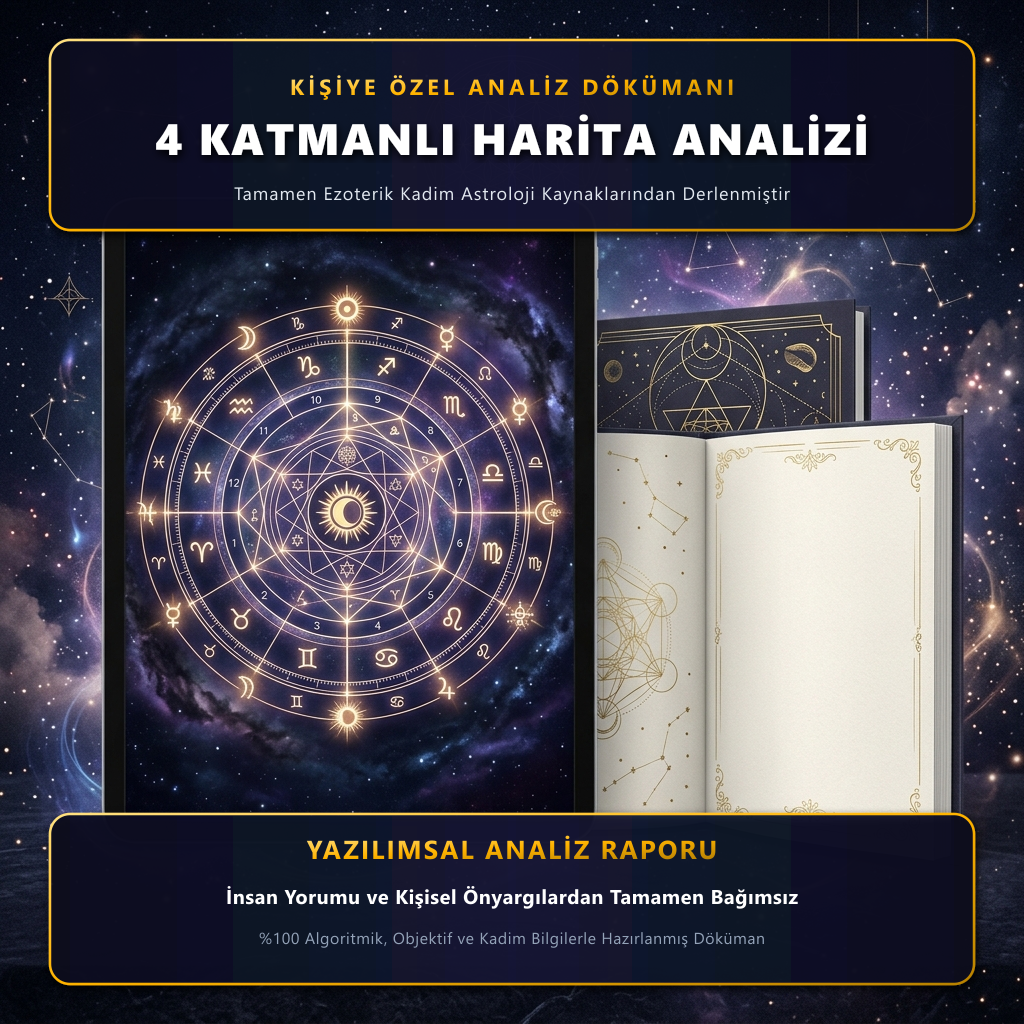
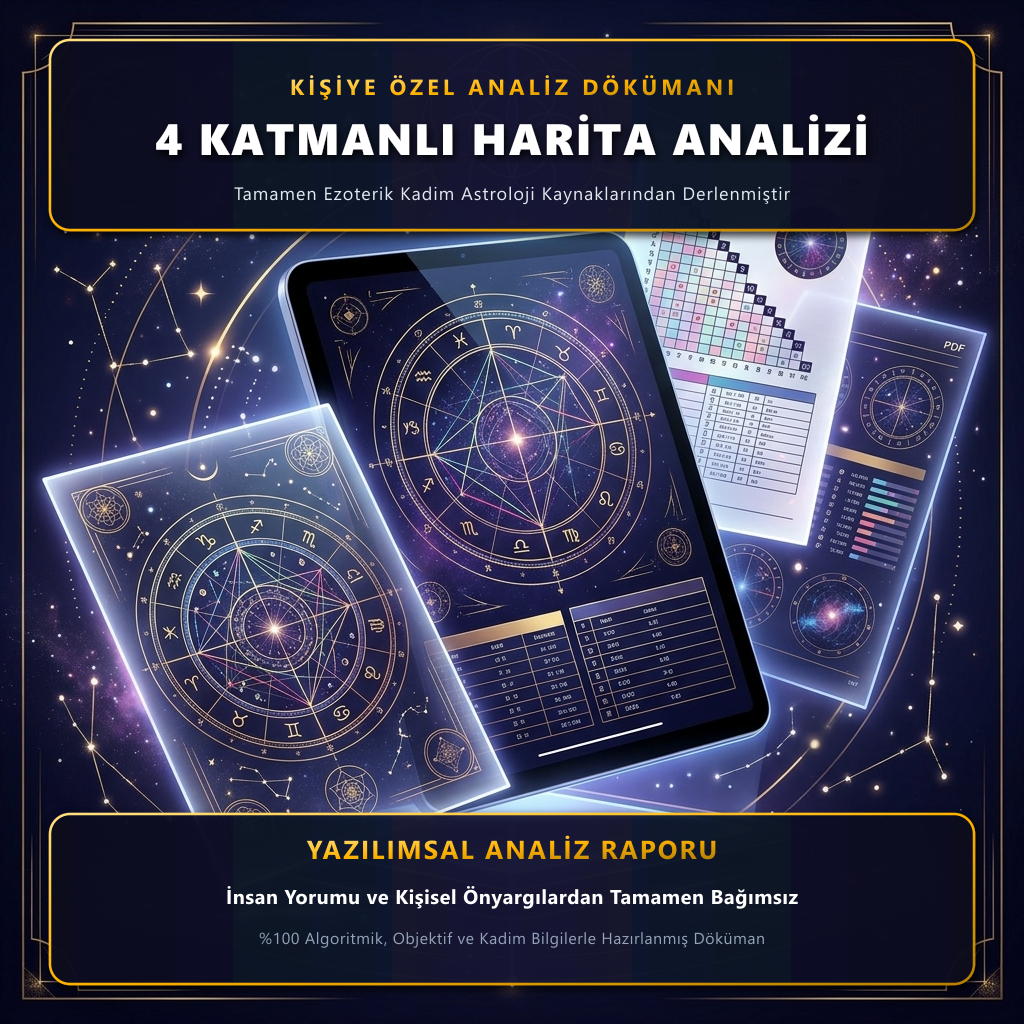
update: replace book mockup with digital PDF document preview in advertisement image

diff --git a/create_ad_overlay.js b/create_ad_overlay.js
@@ -1,7 +1,7 @@
 const sharp = require('sharp');
 const path = require('path');
 
-const bgPath = 'C:\\Users\\baha\\.gemini\\antigravity-ide\\brain\\aa884945-8be4-4b6c-af8f-16a831497c6f\\four_layer_astrology_bg_1787221746959.png';
+const bgPath = 'C:\\Users\\baha\\.gemini\\antigravity-ide\\brain\\aa884945-8be4-4b6c-af8f-16a831497c6f\\four_layer_astrology_digital_bg_1787221938991.png';
 const outputPath = 'c:\\projeler\\7layers\\web\\public\\four_layer_astrology_ad.png';
 
 async function main() {
